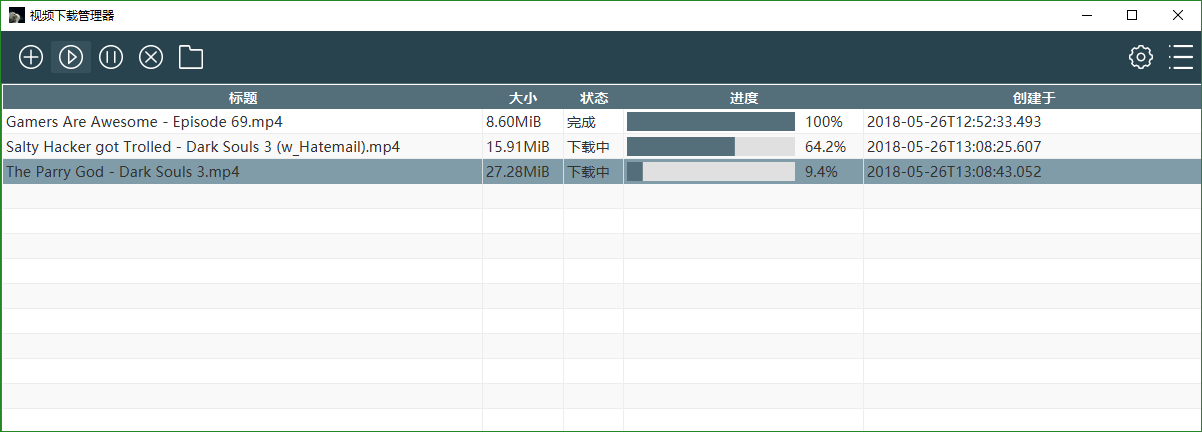
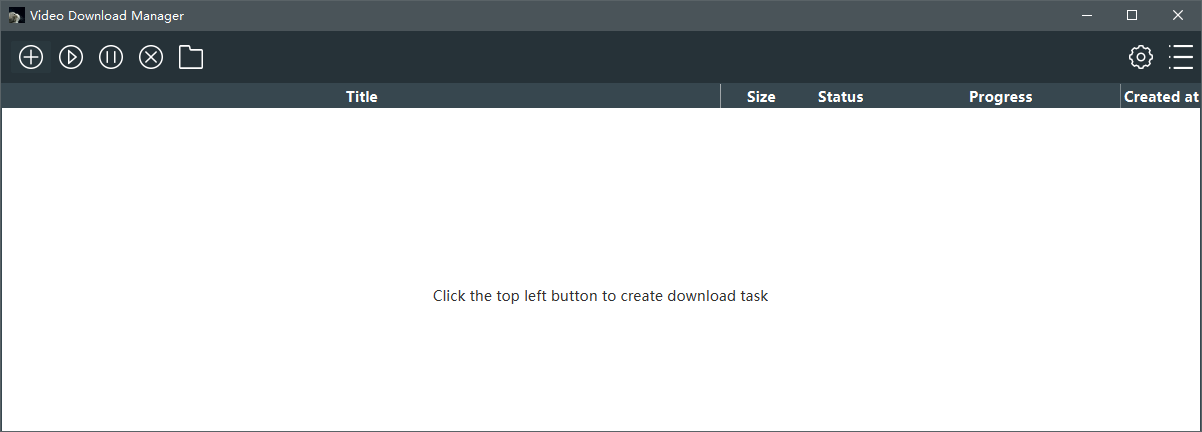
update readme; fix theme init
Former-commit-id: 27948eaef5dc3ec6982fd914ff9827797374e872 [formerly 9fbc30767beae266f81c9f6cffb091e2c9f4bd08]
Former-commit-id: dcead4514a4b1f52eb33daf14c0d2306dcdee9d8

Changed region(s): [[0.0, 0.0, 1.0, 1.0], [0.3694, 0.662, 0.6464, 0.7222]]

diff --git a/src/main/kotlin/com/ingbyr/vdm/Main.kt b/src/main/kotlin/com/ingbyr/vdm/Main.kt
@@ -1,6 +1,5 @@
 package com.ingbyr.vdm
 
-import com.ingbyr.vdm.controllers.ThemeController
 import com.ingbyr.vdm.utils.AppConfigUtils
 import com.ingbyr.vdm.utils.AppProperties
 import com.ingbyr.vdm.views.MainView
@@ -18,7 +17,7 @@ class Main : App(MainView::class) {
     private val availableLanguages = listOf("zh", "en", "hu")
 
     init {
-//         Locale.setDefault(Locale("", ""))
+         Locale.setDefault(Locale("en", ""))
         val language = Locale.getDefault().language
         if (language !in availableLanguages) {
             Locale.setDefault(Locale("en", "US"))

diff --git a/src/main/kotlin/com/ingbyr/vdm/controllers/ThemeController.kt b/src/main/kotlin/com/ingbyr/vdm/controllers/ThemeController.kt
@@ -33,7 +33,7 @@ open class ThemeController : Controller() {
     fun initTheme() {
         // load theme config
         activeTheme = cu.safeLoad(AppProperties.THEME, messages["theme.bluegrey"])
-        importStylesheet(themesNameAndUrl[activeTheme] ?: "blue".resourceUrl())
+        importStylesheet(themesNameAndUrl[activeTheme] ?: "BlueGrey".resourceUrl())
 
         // add listener to change theme
         activeThemeProperty.addListener { _, oldTheme, newTheme ->

diff --git a/README.md b/README.md
@@ -1,5 +1,5 @@
 # Video Download Manager
-![](https://img.shields.io/badge/version-0.3.1-green.svg)
+![](https://img.shields.io/badge/version-0.4.0-green.svg)
 ![](https://img.shields.io/github/stars/ingbyr/VDM.svg)
 ![](https://img.shields.io/github/forks/ingbyr/VDM.svg)
 ![](https://img.shields.io/github/issues/ingbyr/VDM.svg)
@@ -8,10 +8,8 @@
 [中文说明](http://www.ingbyr.com/post/youget-zh/)
 
 # Download
-[Download Page](https://github.com/ingbyr/VDM/releases)
-
-- You can install VDM by downloading `VDM.exe` directly
-- If you know how to run the jar file,  just download the `VDM-NEEDJRE.zip` (Requires [JRE8 ](http://www.oracle.com/technetwork/java/javase/downloads/jre8-downloads-2133155.html) or [JDK8](http://www.oracle.com/technetwork/java/javase/downloads/jdk8-downloads-2133151.html))
+- Install the [JRE8](http://www.oracle.com/technetwork/java/javase/downloads/jre8-downloads-2133155.html) first (If you have installed the JRE, skip this step).
+- Download the [VDM.zip](https://github.com/ingbyr/VDM/releases), unzip it and then click the `VDM.jar` file
 
 
 # Screenshots
